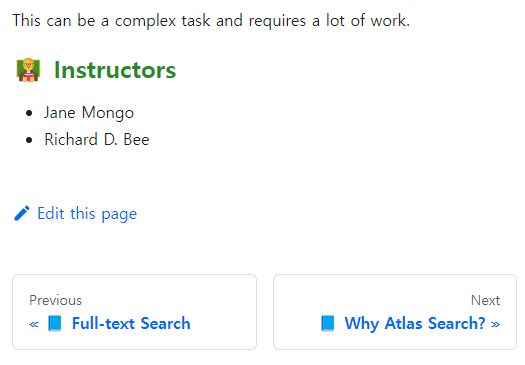
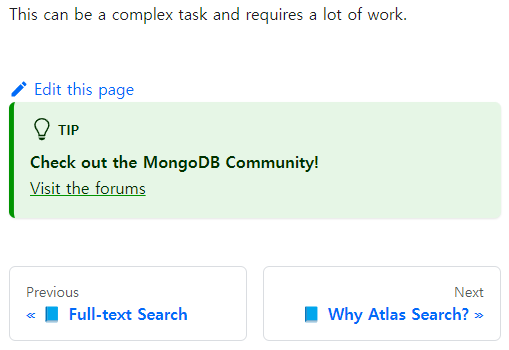
Update live demo case 2 instructions

diff --git a/live-demo-mission/case-2/index.md b/live-demo-mission/case-2/index.md
@@ -2,19 +2,10 @@
 
 ## Goal
 
-- Some [documents](/docs/1-full-text-search/2-why-search.mdx) include instructor names in their frontmatter:
-
-> ```yaml
-> ---
-> instructors:
->  - Jane Mongo
->  - Richard D. Bee
-> ---
-> ```
-
-- Add the [`src/components/Instructors`](/src/components/Instructors/index.tsx) component:
-  - Position it right above the footer of each document.
-  - Use it to render the instructor names.
+- Add a Docusaurus admonition at the bottom of each document.
+  - Include a bold message: "Check out the MongoDB Community!"
+  - Provide a link: <https://www.mongodb.com/community/forums/>
+- Place the admonition under the document footer.
 
 Start by swizzling `DocItem/Footer` in `@docusaurus/theme-classic`.
 
